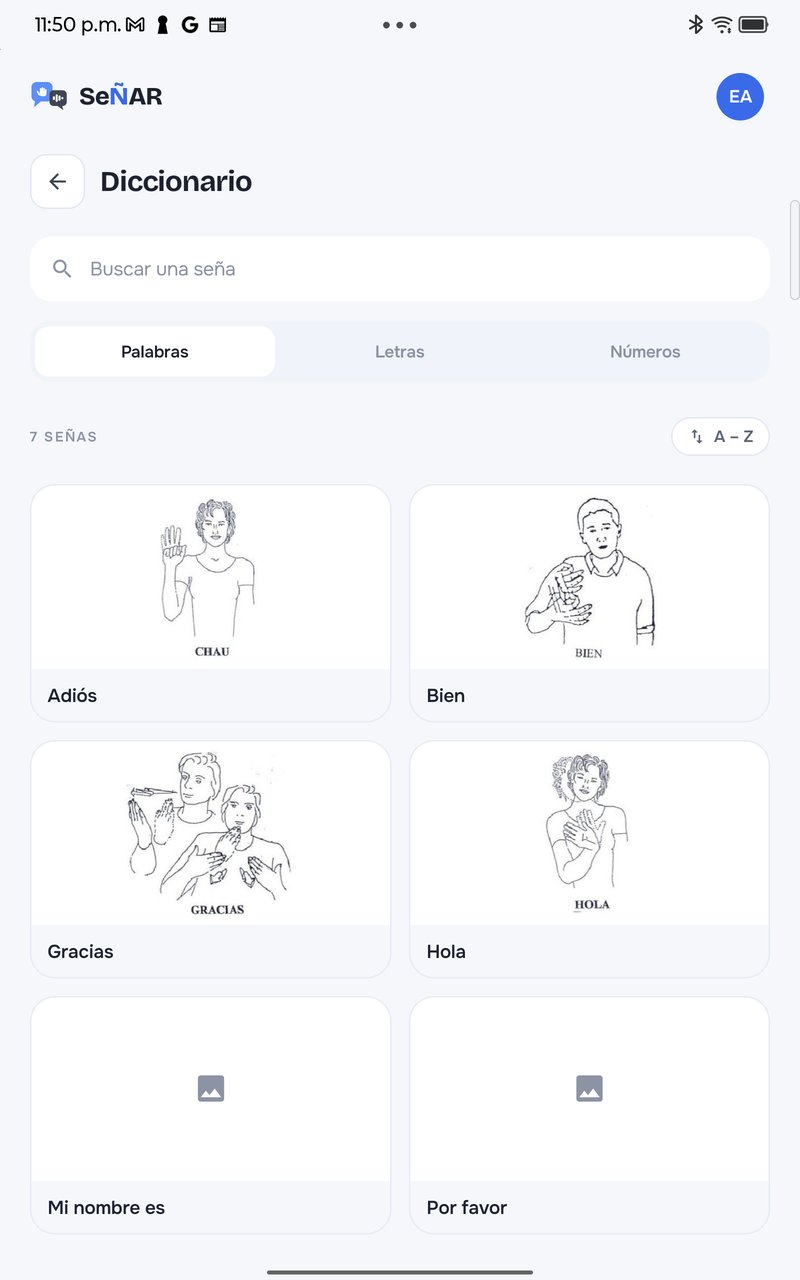
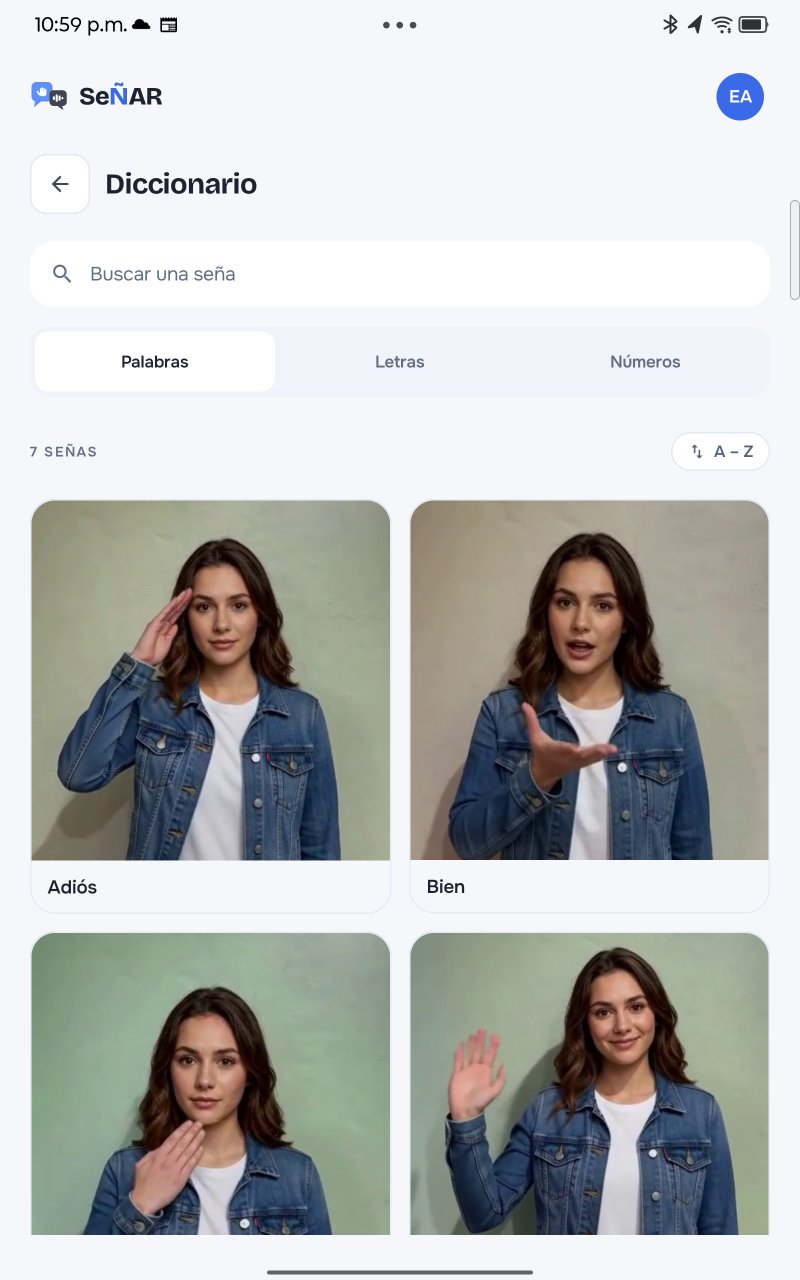
Informe: el diccionario con videos y las cifras del capítulo 6 contra sus datos
El capítulo 5 describía el diccionario con una imagen por seña y decía que
dos no tenían. La app ahora muestra una imagen y un video de cada una: se
actualiza la descripción y las capturas del diccionario y de la elección
de la seña.

Las cifras del capítulo 6 que la auditoría marcó sin fuente se revisaron
contra los datos crudos:
- La tabla de encuadre de la Tab S7 se reproduce exacta, pero con la salida
  del modelo sin temperatura. El texto y el caption lo aclaran, con la
  diferencia respecto de lo que muestra la app.
- Las alturas de la muñeca y el 23 % del aviso descartado se confirman con
  las tomas de la sesión 1.
- Los 12 ms del intento de rotación con imagen reutilizada no están en
  ninguna métrica ni commit: sale la cifra y queda anotado.

Federado: los capítulos 7 y 8 decían que la simulación reproduce
exactamente las rondas reales. El piloto dio 61,7 % para P2 en la sesión 2
y la simulación 59,6 %: una toma de diferencia, dentro de la oscilación
entre rondas. Se dice así, y queda anotado que la corrida simulada no está
guardada.

diff --git a/informe-tesina-latex/chapters/06-desafios-tecnicos.tex b/informe-tesina-latex/chapters/06-desafios-tecnicos.tex
@@ -51,7 +51,8 @@ Este capítulo reúne los problemas técnicos más relevantes encontrados durant
     \item MediaPipe se ejecuta en la unidad de procesamiento gráfico, con retorno automático al procesador central si el dispositivo no la soporta.
 \end{itemize}
 
-Un primer intento de reducir el costo de la rotación, dibujando cada cuadro sobre una imagen reutilizada, resultó más lento que la versión original (12\,ms frente a 7\,ms) y se reemplazó por la rotación durante la copia. También se evaluaron y descartaron el modo de video de MediaPipe y la delegación de la rotación al detector.
+Un primer intento de reducir el costo de la rotación, dibujando cada cuadro sobre una imagen reutilizada, resultó más lento que la versión original, cuya rotación costaba unos 7\,ms por cuadro en el Galaxy A55, y se reemplazó por la rotación durante la copia.
+\pendienteautora{El tiempo del intento con imagen reutilizada (12\,ms) no quedó registrado en las métricas ni en el historial: reponerlo solo si se encuentra la medición.} También se evaluaron y descartaron el modo de video de MediaPipe y la delegación de la rotación al detector.
 
 \textbf{Efecto.} El Galaxy A55 pasó de 6,3 a 9,6 cuadros por segundo, el OnePlus de 7,5 a 17,5 y la tableta de 16,7 a 24,9, con diferencias en los landmarks inferiores al 0,3\,\% del ancho de la imagen en la mediana.
 
@@ -61,7 +62,7 @@ Un primer intento de reducir el costo de la rotación, dibujando cada cuadro sob
 
 \textbf{Decisión.} La pantalla de cámara queda fija en orientación vertical, que es la forma habitual de sostener un teléfono para una videollamada. Al salir de esa pantalla, la aplicación recupera la orientación que tenía. Todas las tomas de las sesiones de captura se grabaron en vertical.
 
-En una tableta, la orientación fija tiene un costo de uso: apoyada en horizontal, la pantalla de cámara queda de costado. La imagen, en cambio, sigue la orientación física del dispositivo: la Galaxy Tab S7 la entregó en formato apaisado (640$\times$480) y, en otras sesiones, cuadrado (1088$\times$1088). La corrección a lienzo cuadrado divide las coordenadas por el lado mayor de la imagen, por lo que la mano conserva su escala en todos esos formatos y solo cambia su posición. En la prueba, las tomas de «V» y de «hola» en horizontal y en formato cuadrado se reconocieron con confianzas de entre 0,87 y 1,0. Se evaluó recortar el centro de la imagen apaisada a formato vertical, y se descartó porque cambia el lado mayor y, con él, la escala de la mano.
+En una tableta, la orientación fija tiene un costo de uso: apoyada en horizontal, la pantalla de cámara queda de costado. La imagen, en cambio, sigue la orientación física del dispositivo: la Galaxy Tab S7 la entregó en formato apaisado (640$\times$480) y, en otras sesiones, cuadrado (1088$\times$1088). La corrección a lienzo cuadrado divide las coordenadas por el lado mayor de la imagen, por lo que la mano conserva su escala en todos esos formatos y solo cambia su posición. En la prueba, las tomas de «V» y de «hola» en horizontal y en formato cuadrado se reconocieron con confianzas de entre 0,87 y 1,0 (salida del modelo al clasificar las tomas en la computadora, sin el ajuste de temperatura). Se evaluó recortar el centro de la imagen apaisada a formato vertical, y se descartó porque cambia el lado mayor y, con él, la escala de la mano.
 
 \section{Dependencia del encuadre}
 \label{sec:encuadre}
@@ -85,7 +86,7 @@ En una tableta, la orientación fija tiene un costo de uso: apoyada en horizonta
         «hola», horizontal & --- & «hola» (1,00 y 1,00) \\
         \bottomrule
     \end{tabular}
-    \caption{Clase predicha y confianza para dos tomas de cada seña en la Galaxy Tab S7, según el encuadre.}
+    \caption{Clase predicha y confianza para dos tomas de cada seña en la Galaxy Tab S7, según el encuadre. Las confianzas son la salida del modelo al clasificar las tomas en la computadora, sin el ajuste de temperatura; con el ajuste que aplica la aplicación resultan hasta 0,09 menores y la clase predicha no cambia.}
     \label{tab:encuadre}
 \end{table}
 

diff --git a/informe-tesina-latex/chapters/05-diseno-implementacion.tex b/informe-tesina-latex/chapters/05-diseno-implementacion.tex
@@ -196,7 +196,7 @@ La pantalla principal ofrece las dos funciones de traducción, señas y voz, y d
 \begin{itemize}
     \item \textbf{Traducir señas.} La vista de la cámara ocupa toda la pantalla, con un recuadro que indica el encuadre y se resalta cuando se detectan manos, los puntos de las manos dibujados encima y, en la parte inferior, la frase traducida y un rótulo de estado («esperando señas», «leyendo la seña», «no la reconocí»).
     \item \textbf{Traducir voz.} La transcripción en curso y las frases anteriores, en letra grande.
-    \item \textbf{Diccionario.} Las señas que reconoce el modelo, organizadas en palabras y letras, con un buscador y una imagen de referencia de cada seña; «mi nombre es» y «por favor» todavía no tienen imagen.
+    \item \textbf{Diccionario.} Las señas que reconoce el modelo, organizadas en palabras y letras, con un buscador. Cada seña se presenta con una imagen del momento que mejor la identifica y, al abrirla, con un video breve que la muestra completa y se repite hasta que se lo pausa. Los videos se incluyen en la aplicación, por lo que el diccionario tampoco requiere conexión. El mismo video se ofrece como referencia en el modo de entrenamiento.
     \item \textbf{Modo entrenamiento y conjunto de datos.} La grabación de tomas y su gestión.
     \item \textbf{Aprendizaje federado.} Las funciones de la sección anterior.
     \item \textbf{Ajustes.} Resolución de análisis, cámara, sensibilidad de detección, dibujo de los puntos, lectura en voz alta, velocidad y tono de la voz, variante del español, umbral de confianza y reconocimiento de voz solo local.
@@ -247,6 +247,6 @@ Las Figuras~\ref{fig:pantallas-principales} a~\ref{fig:pantallas-ajustes} muestr
     \label{fig:pantallas-ajustes}
 \end{figure}
 
-\pendienteautora{Imágenes de referencia del diccionario: reemplazarlas por imágenes propias o citar su fuente.}
+\pendienteautora{Videos del diccionario: indicar cómo se produjeron y quién verificó que cada seña esté bien realizada.}
 
 El núcleo comprometido en la propuesta es el pipeline de traducción de señas, la salida en texto y voz y el modo voz a texto. Durante el desarrollo se incorporaron mejoras de experiencia de uso que surgieron de las pruebas: la presentación inicial, la precarga de los modelos mientras se muestra la pantalla de inicio para que la primera traducción no espere, el rótulo de estado de la traducción, la pantalla que permanece encendida durante la traducción y la grabación, y la pantalla de cámara fija en orientación vertical (Capítulo~\ref{cap:desafios}).

diff --git a/informe-tesina-latex/chapters/07-experimentos-resultados.tex b/informe-tesina-latex/chapters/07-experimentos-resultados.tex
@@ -297,7 +297,8 @@ Para evaluar el caso en que el esquema federado debería aportar más, se entren
     \label{tab:federado-sin-p2}
 \end{table}
 
-Las rondas mejoraron el modelo compartido para las tres personas, incluida P3, que no participó, y el acierto sobre el conjunto de prueba fijo del servidor pasó de 78,8\,\% a 84,6\,\%. La mejora específica para P2 fue pequeña: dos puntos en sus tomas de la sesión~2, equivalentes a una sola toma, y con oscilaciones entre rondas. La simulación de las mismas rondas en la computadora reproduce el resultado real (81,8\,\% y 59,6\,\%), y aumentar las épocas locales de dos a ocho no lo modifica.
+Las rondas mejoraron el modelo compartido para las tres personas, incluida P3, que no participó, y el acierto sobre el conjunto de prueba fijo del servidor pasó de 78,8\,\% a 84,6\,\%. La mejora específica para P2 fue pequeña: dos puntos en sus tomas de la sesión~2, equivalentes a una sola toma, y con oscilaciones entre rondas. La simulación de las mismas rondas en la computadora dio 81,8\,\% y 59,6\,\%: coincide con las rondas reales en las tomas habituales de P2 y difiere en una toma en las de la sesión~2 (61,7\,\% en el piloto, que osciló entre 59,6\,\% y 61,7\,\% de una ronda a otra). Aumentar las épocas locales de dos a ocho no lo modifica.
+\pendienteautora{La corrida simulada no quedó guardada entre los resultados: las cifras 81,8 y 59,6 salen del registro de avance. Volver a correrla o retirar la comparación.}
 
 Ajustar la cabeza solo con las 84 tomas de P2, sin promediar con otros dispositivos, eleva su acierto en la sesión~2 a 70,6\,$\pm$\,2,3\,\%. Esta personalización local se implementó en la aplicación y, ejecutada en el teléfono de P2, tardó 0,3\,s y elevó su acierto en la sesión~2 de 62\,\% a 66\,\%. El ajuste solo con P2 también mejora a P3 (de 66,7\,\% a entre 81 y 83\,\%).
 

diff --git a/informe-tesina-latex/chapters/08-discusion.tex b/informe-tesina-latex/chapters/08-discusion.tex
@@ -21,7 +21,7 @@ La métrica $\sigma$ de la propuesta se comporta como se esperaba: crece en las 
 
 \subsection{Aprendizaje federado}
 
-El piloto muestra que el ciclo completo es viable en dispositivos reales: el entrenamiento local de la cabeza tarda una décima de segundo, cada actualización ocupa 13\,KB y la cabeza combinada llega a cada dispositivo sin alteraciones. La simulación reproduce exactamente el resultado de las rondas reales, lo que respalda las conclusiones obtenidas en simulación con más rondas y semillas.
+El piloto muestra que el ciclo completo es viable en dispositivos reales: el entrenamiento local de la cabeza tarda una décima de segundo, cada actualización ocupa 13\,KB y la cabeza combinada llega a cada dispositivo sin alteraciones. La simulación reproduce el resultado de las rondas reales con una toma de diferencia, dentro de la oscilación observada entre rondas, lo que respalda las conclusiones obtenidas en simulación con más rondas y semillas.
 
 El experimento con una persona nueva matiza el aporte del esquema. Las rondas mejoraron el modelo compartido para todas las personas, incluida una que no participó, pero la mejora propia de la persona nueva fue pequeña. Promediar las actualizaciones entre dispositivos produce un modelo para el conjunto de los participantes, en el que lo específico de cada uno se diluye; la personalización local, que no se promedia, lo recupera en buena medida. Este comportamiento es conocido en la literatura del área~\cite{kairouz2021advances} y es el motivo por el que los esquemas federados suelen combinar un modelo global con un ajuste local.
 

diff --git a/informe-tesina-latex/NOTAS_DE_TRABAJO.md b/informe-tesina-latex/NOTAS_DE_TRABAJO.md
@@ -200,6 +200,24 @@ Se auditó cada cifra del informe contra su fuente (unas 390; el detalle está e
 
 El PDF compila (98 páginas). Para Overleaf: `main.tex`, los capítulos 03, 05, 05b, 06, 07, 08, 09 y `apendices.tex`, además de `figures/robustez-por-condicion.png` si no se subió todavía.
 
+## Sesión 2026-11-15 (diccionario con videos y fuentes de las cifras)
+
+**Diccionario.** La app reemplazó los dibujos por una imagen y un video de cada seña. El cap. 5 lo describe así y las capturas `figures/capturas/diccionario.jpg` y `entrenamiento_lista.jpg` son nuevas (tablet, 2026-11-15). Quedan con las miniaturas viejas `entrenamiento_camara.jpg` y `dataset.jpg`. Pendiente de la autora: decir cómo se produjeron los videos y quién verificó las señas.
+
+**Cifras del cap. 6 que no tenían fuente, revisadas contra los datos** (`plan/evidencia/2026-11-15_encuadre_y_muneca.txt`, con los dos scripts que lo generan):
+
+- `tab:encuadre` y «entre 0,87 y 1,0»: se reproducen exactas clasificando las tomas de `respaldo_TabS7` con el modelo publicado **sin temperatura** (0,79/0,72; 0,96/0,90; 0,95/0,95; 1,00/1,00; formato cuadrado 0,94/0,87). Con T = 1,20 dan 0,70/0,64; 0,92/0,82; 0,89/0,89; 1,00; 0,88/0,78. El texto y el caption ahora lo aclaran.
+- Muñeca al 35 % («N»), 43 % («E») y 49 % («adiós»), 42 % en la «V» mal encuadrada y aviso en el 23 %: confirmadas con las tomas de teléfono de la sesión 1 (medianas 0,35 / 0,43 / 0,49; mediana por toma por encima de la mitad en el 23,6 % de las 318). La fuente original son los commits `8348df3` y `05e24a4`.
+- Rotación: los 7 ms de la versión original están medidos (6,9 ms por cuadro en el A55, `camera/README.md`). Los 12 ms del intento con imagen reutilizada no aparecen en ninguna métrica ni commit: se sacó la cifra y quedó un `\pendienteautora`.
+- En `respaldo_TabS7` hay además tres «V» en horizontal del primer intento (muñeca al 63-83 %) que el modelo no reconoce («cómo estás» 0,50 y «nada»). La tabla no las incluye; conviene decidir si se mencionan.
+
+**Federado.**
+
+- La simulación (81,8 % y 59,6 %): el piloto real está en `federated/piloto_sinP2/evaluacion_versiones.json` y P2 en la sesión 2 fue 59,6 → 61,7 → 59,6 → 59,6 → 61,7. La corrida simulada no está guardada. Los cap. 7 y 8 ya no dicen «reproduce exactamente»: dicen que difiere en una toma, dentro de la oscilación, y quedó un `\pendienteautora` para volver a correrla o retirar la comparación.
+- 84,5 ± 2,5 frente a 83,6: `progreso.md` da los dos (fila del experimento sin P2: 77,3 → 83,6; fila de la personalización en el teléfono: 84,5 ± 2,5 «desde la misma cabeza»). No hay script ni resultado guardado de ninguna de las dos corridas, así que no se pudo decidir cuál vale. La tabla conserva 84,5 ± 2,5. Sigue pendiente.
+
+El PDF compila (99 páginas). Para Overleaf: los capítulos 05, 06, 07 y 08 y las dos capturas nuevas, además de lo listado en la sesión anterior.
+
 ## Flujo de trabajo con Overleaf
 
 La usuaria no tiene funciones premium de Overleaf, por lo tanto no se puede mantener sincronizacion automatica por Git.
